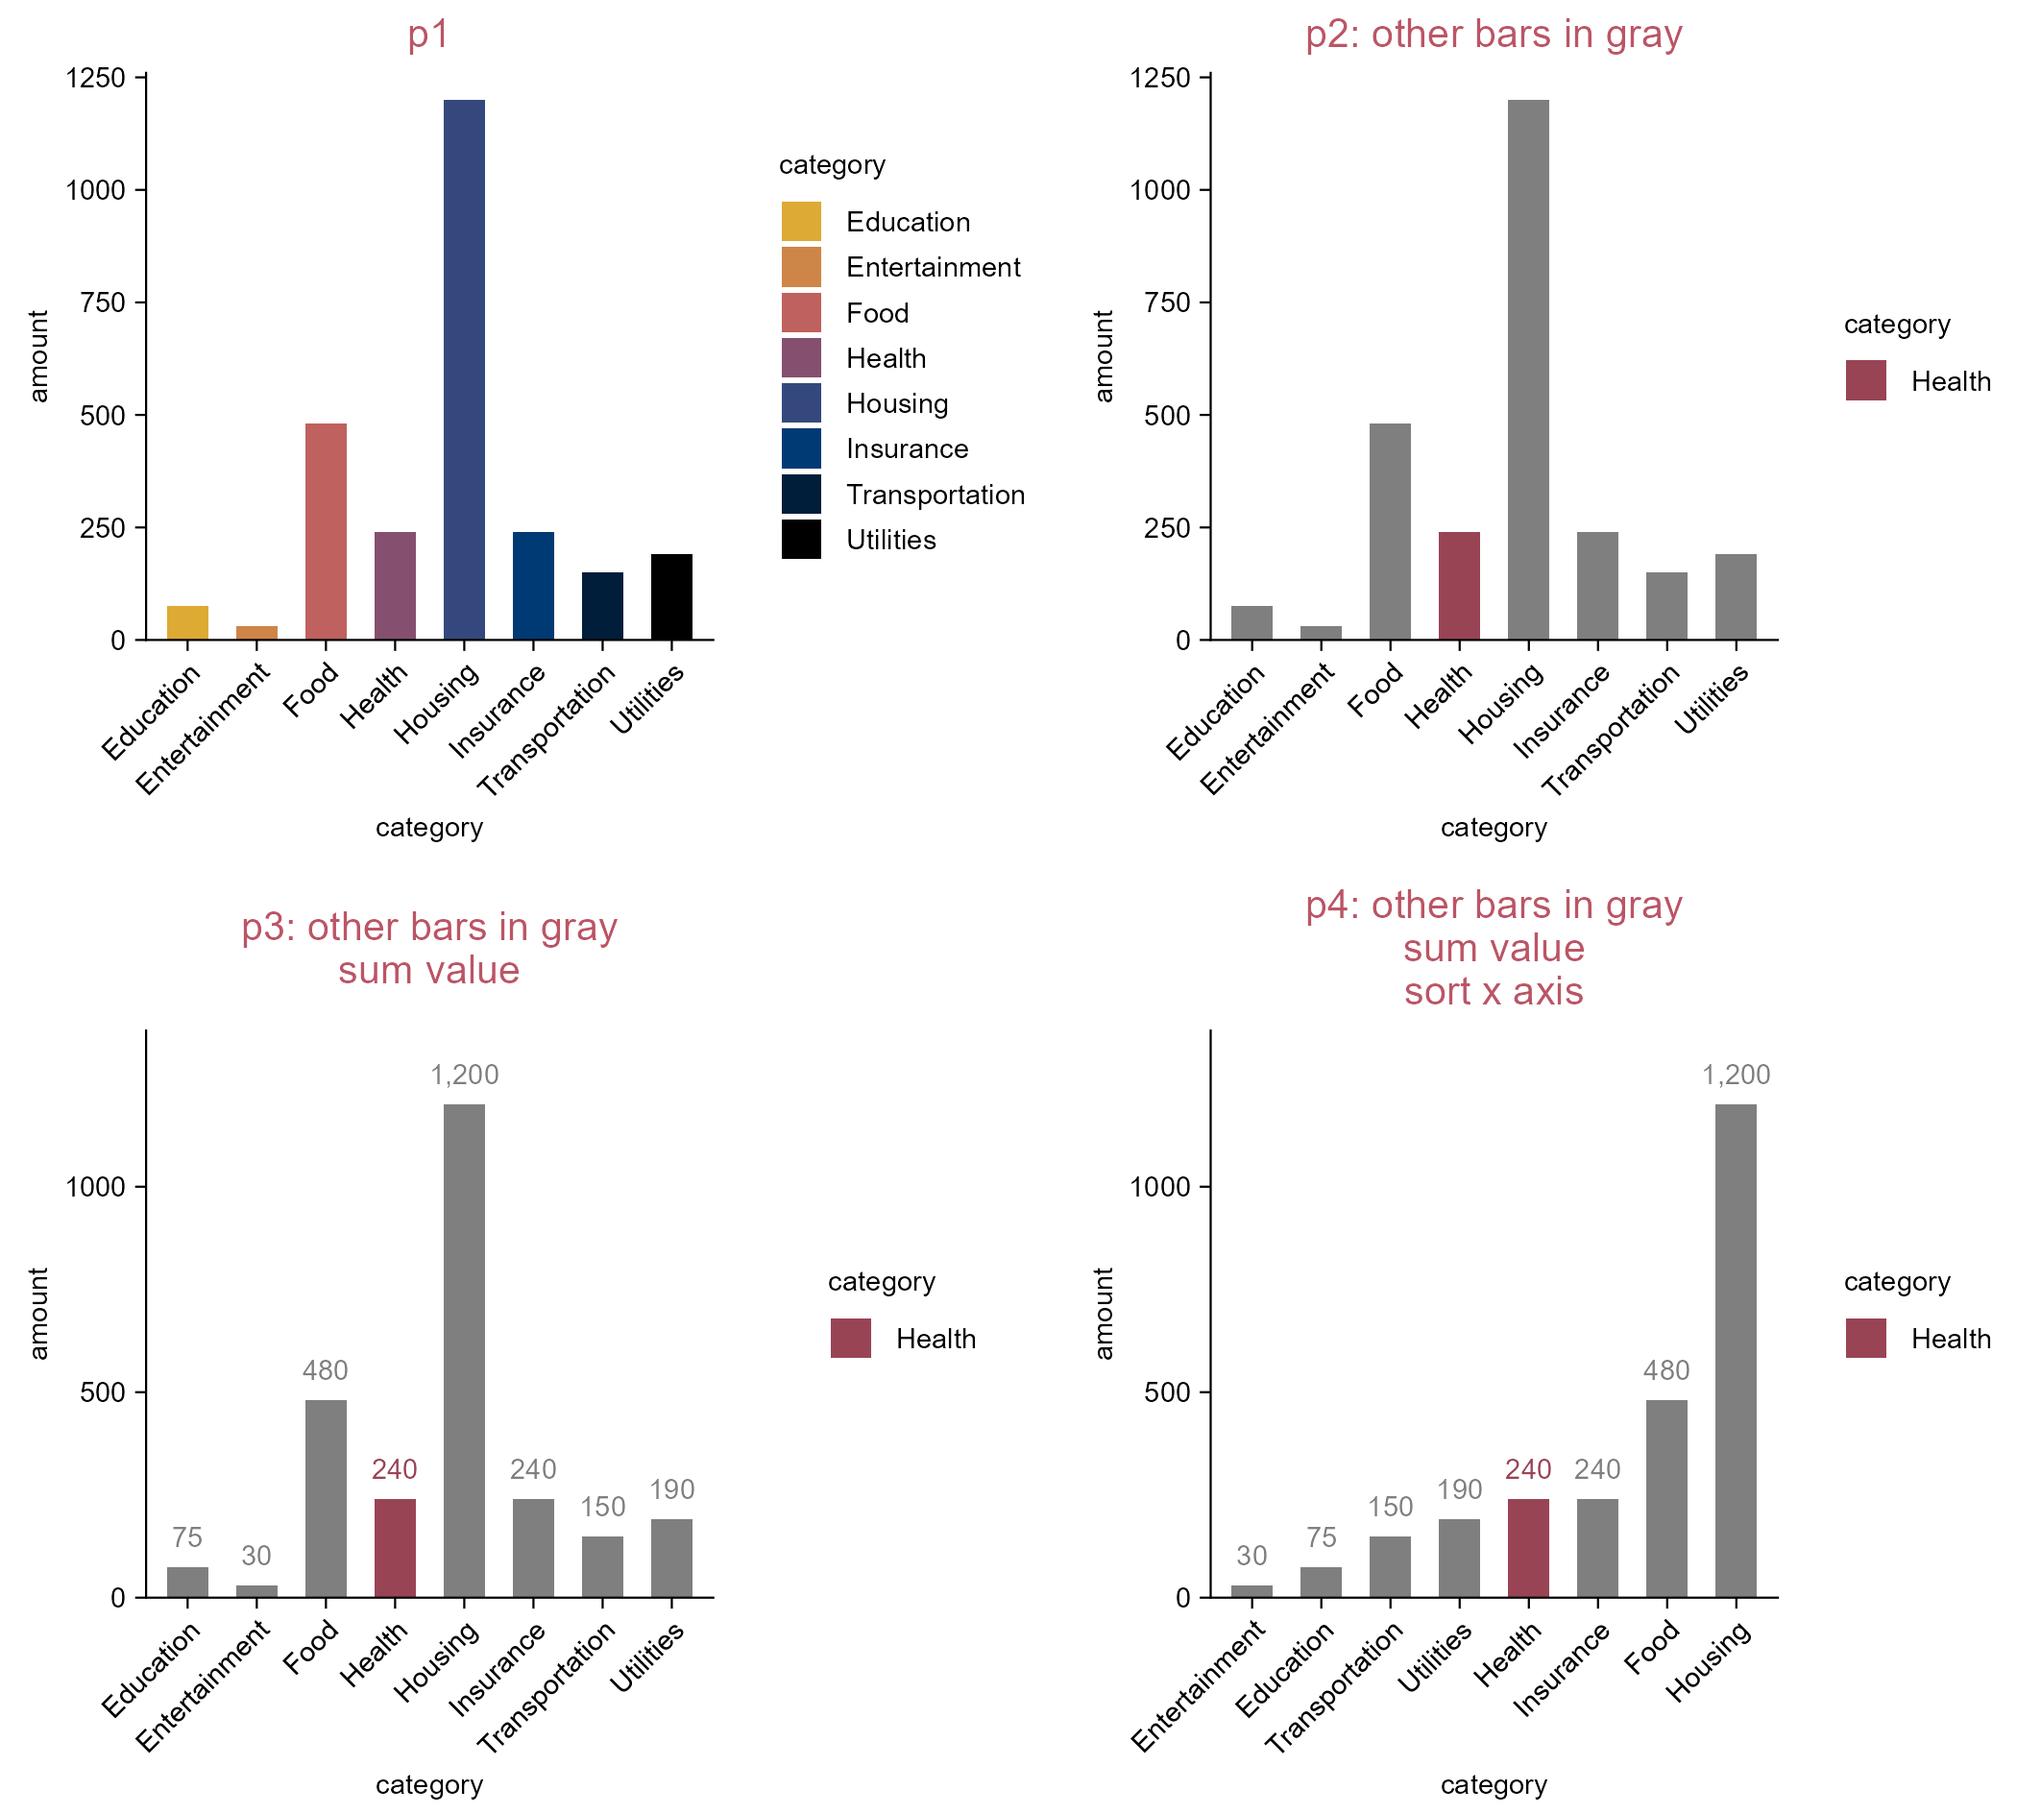
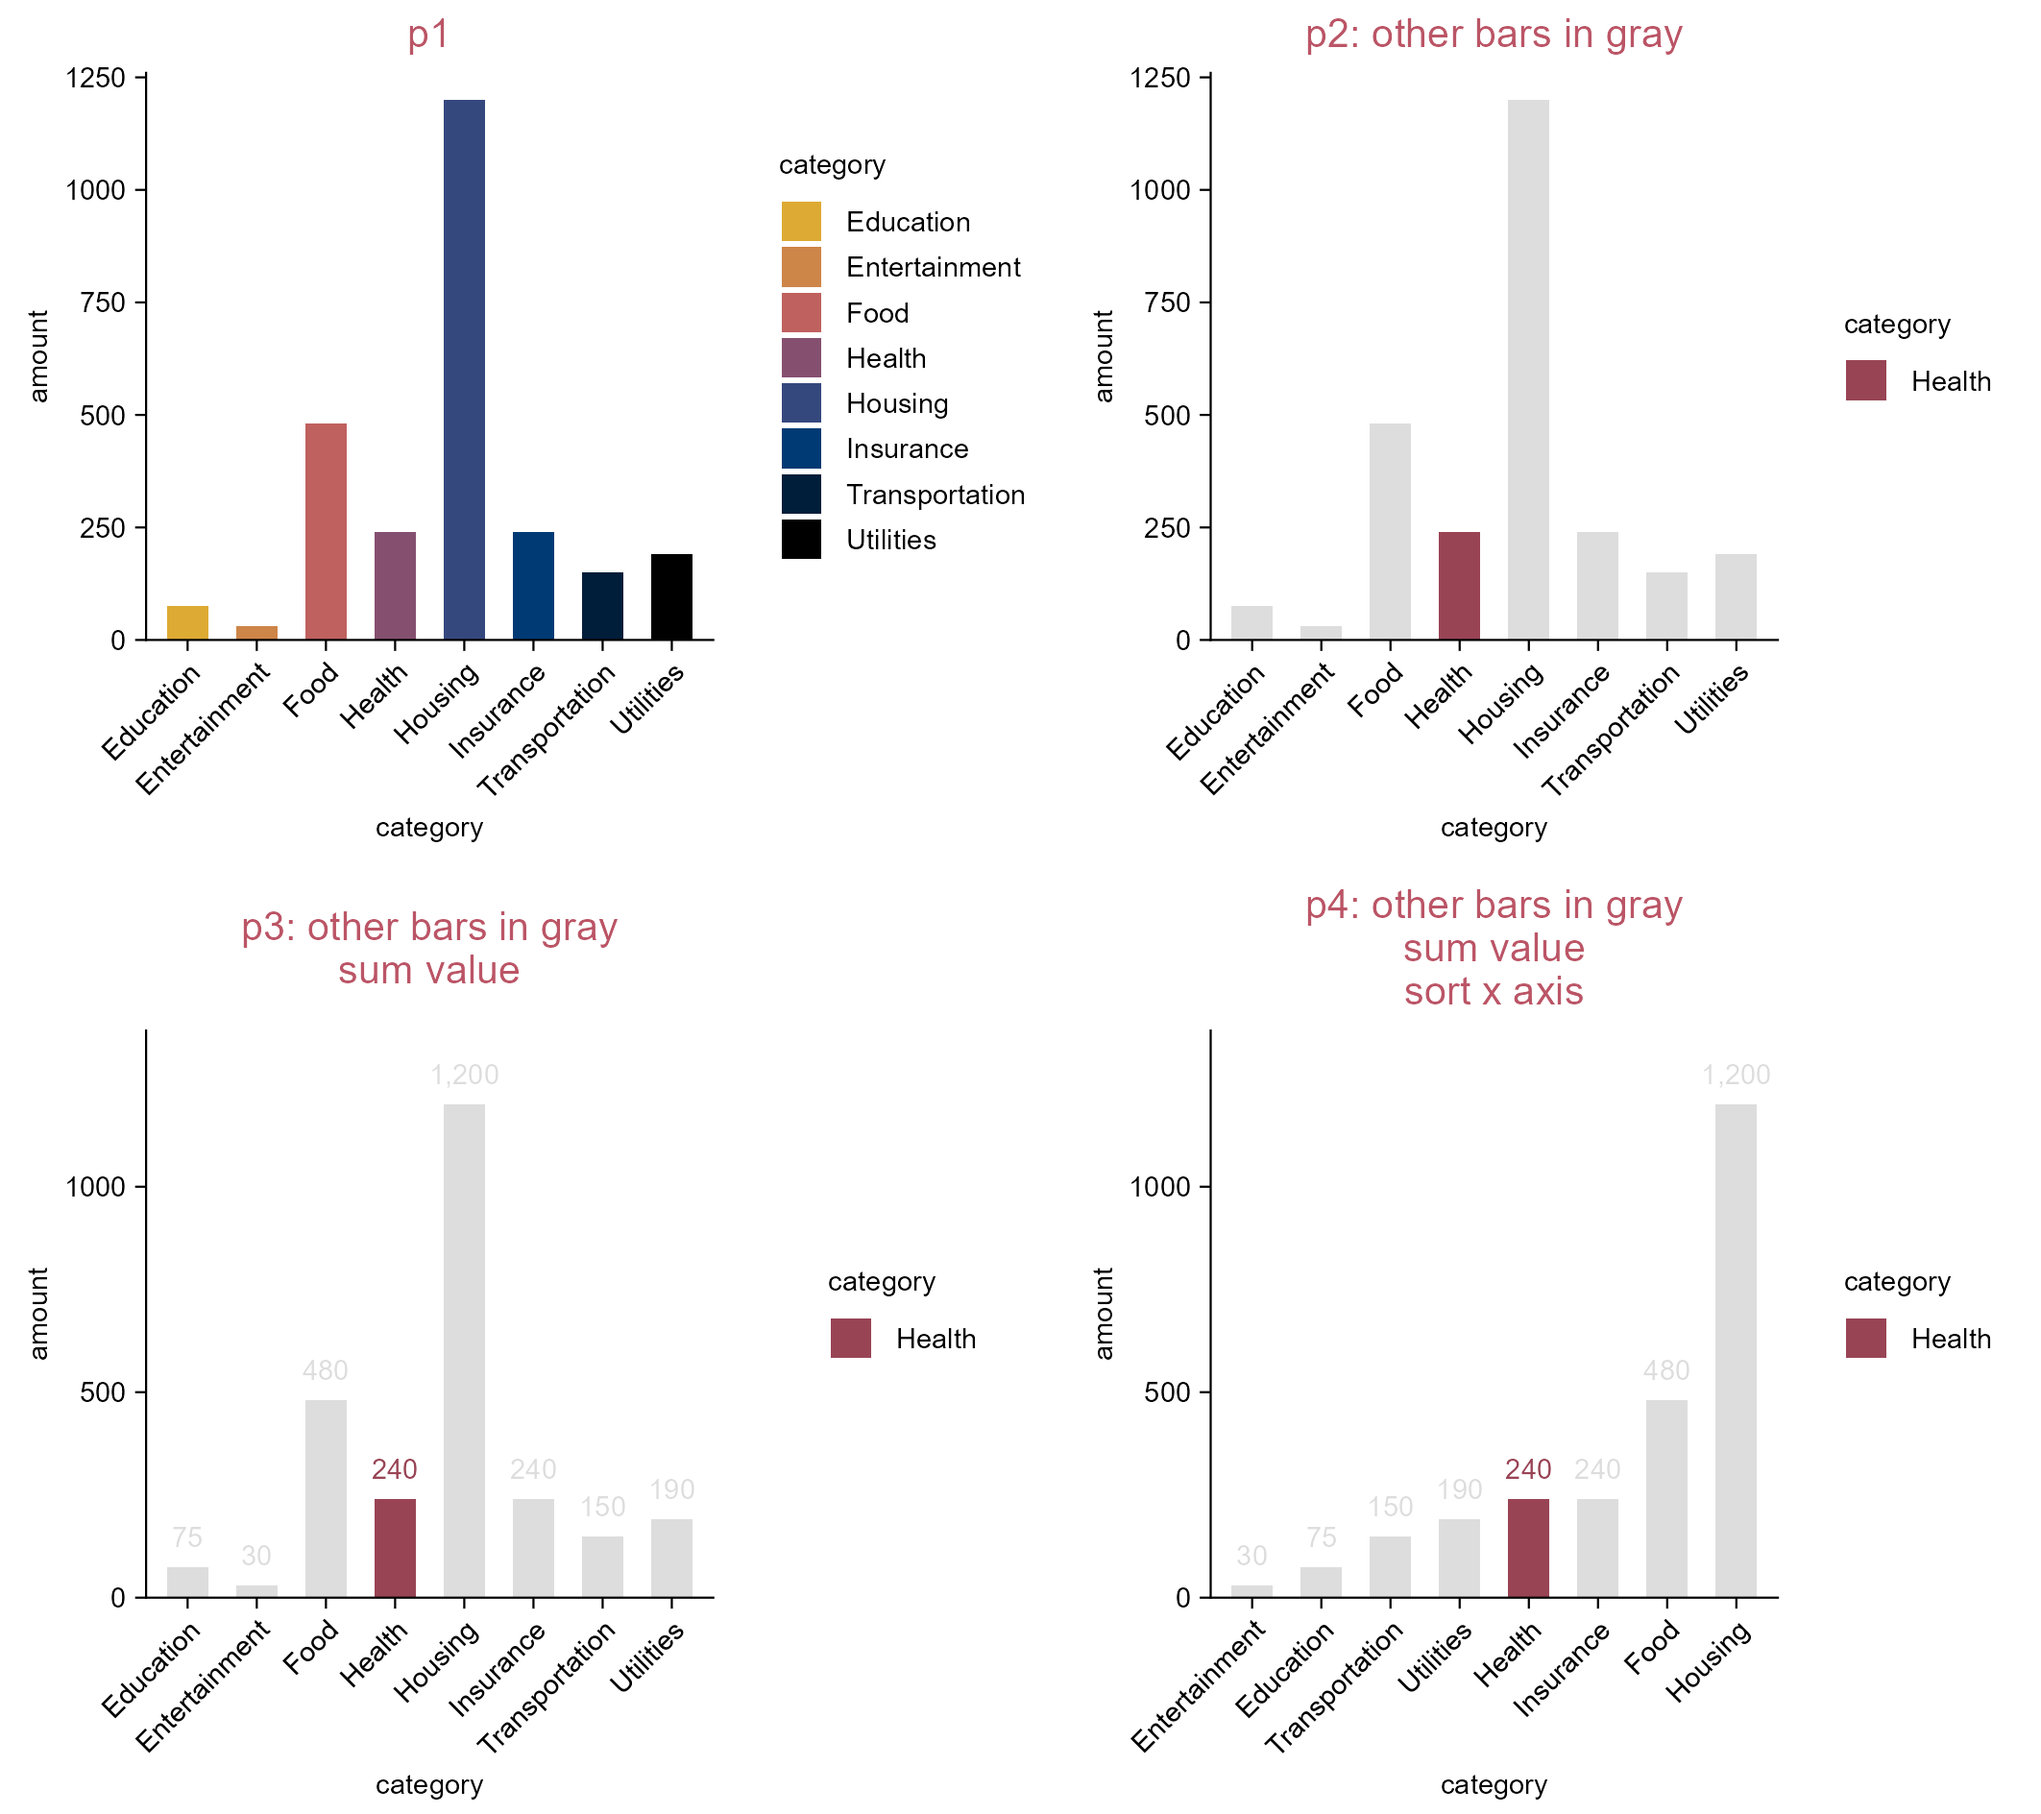
e1.1.5

diff --git a/_book/plots-and-skills_part1.html b/_book/plots-and-skills_part1.html
@@ -1480,28 +1480,26 @@ Note
 <span id="cb48-11"><a href="#cb48-11" aria-hidden="true" tabindex="-1"></a>p2 <span class="ot">&lt;-</span> p1 <span class="sc">|&gt;</span> </span>
 <span id="cb48-12"><a href="#cb48-12" aria-hidden="true" tabindex="-1"></a>  <span class="fu">adjust_title</span>(<span class="at">title =</span> <span class="st">"p2: other bars in gray"</span>) <span class="sc">|&gt;</span> </span>
 <span id="cb48-13"><a href="#cb48-13" aria-hidden="true" tabindex="-1"></a>  <span class="fu">adjust_colors</span>(</span>
-<span id="cb48-14"><a href="#cb48-14" aria-hidden="true" tabindex="-1"></a>    <span class="at">new_colors =</span> <span class="fu">c</span>(</span>
-<span id="cb48-15"><a href="#cb48-15" aria-hidden="true" tabindex="-1"></a>      <span class="st">"Health"</span> <span class="ot">=</span> <span class="st">"#994455"</span>, </span>
-<span id="cb48-16"><a href="#cb48-16" aria-hidden="true" tabindex="-1"></a>      <span class="at">na.value =</span> <span class="st">"#dddddd"</span>))</span>
-<span id="cb48-17"><a href="#cb48-17" aria-hidden="true" tabindex="-1"></a></span>
-<span id="cb48-18"><a href="#cb48-18" aria-hidden="true" tabindex="-1"></a>p3 <span class="ot">&lt;-</span> p1 <span class="sc">|&gt;</span> </span>
-<span id="cb48-19"><a href="#cb48-19" aria-hidden="true" tabindex="-1"></a>  <span class="fu">adjust_title</span>(<span class="at">title =</span> <span class="fu">paste</span>(</span>
-<span id="cb48-20"><a href="#cb48-20" aria-hidden="true" tabindex="-1"></a>    <span class="st">"p3: other bars in gray"</span>,</span>
-<span id="cb48-21"><a href="#cb48-21" aria-hidden="true" tabindex="-1"></a>    <span class="st">"sum value"</span>,</span>
-<span id="cb48-22"><a href="#cb48-22" aria-hidden="true" tabindex="-1"></a>    <span class="at">sep =</span> <span class="st">"</span><span class="sc">\n</span><span class="st">"</span>)) <span class="sc">|&gt;</span> </span>
-<span id="cb48-23"><a href="#cb48-23" aria-hidden="true" tabindex="-1"></a>  <span class="fu">add_sum_value</span>(<span class="at">accuracy =</span> <span class="dv">1</span>) <span class="sc">|&gt;</span> </span>
-<span id="cb48-24"><a href="#cb48-24" aria-hidden="true" tabindex="-1"></a>  <span class="fu">adjust_colors</span>(</span>
-<span id="cb48-25"><a href="#cb48-25" aria-hidden="true" tabindex="-1"></a>    <span class="at">new_colors =</span> <span class="fu">c</span>(</span>
-<span id="cb48-26"><a href="#cb48-26" aria-hidden="true" tabindex="-1"></a>      <span class="st">"Health"</span> <span class="ot">=</span> <span class="st">"#994455"</span>, </span>
-<span id="cb48-27"><a href="#cb48-27" aria-hidden="true" tabindex="-1"></a>      <span class="at">na.value =</span> <span class="st">"#dddddd"</span>))</span>
-<span id="cb48-28"><a href="#cb48-28" aria-hidden="true" tabindex="-1"></a></span>
-<span id="cb48-29"><a href="#cb48-29" aria-hidden="true" tabindex="-1"></a>p4 <span class="ot">&lt;-</span> p3 <span class="sc">|&gt;</span> </span>
-<span id="cb48-30"><a href="#cb48-30" aria-hidden="true" tabindex="-1"></a>  <span class="fu">adjust_title</span>(<span class="at">title =</span> <span class="fu">paste</span>(</span>
-<span id="cb48-31"><a href="#cb48-31" aria-hidden="true" tabindex="-1"></a>    <span class="st">"p4: other bars in gray"</span>,</span>
-<span id="cb48-32"><a href="#cb48-32" aria-hidden="true" tabindex="-1"></a>    <span class="st">"sum value"</span>,</span>
-<span id="cb48-33"><a href="#cb48-33" aria-hidden="true" tabindex="-1"></a>    <span class="st">"sort x axis"</span>,</span>
-<span id="cb48-34"><a href="#cb48-34" aria-hidden="true" tabindex="-1"></a>    <span class="at">sep =</span> <span class="st">"</span><span class="sc">\n</span><span class="st">"</span>)) <span class="sc">|&gt;</span> </span>
-<span id="cb48-35"><a href="#cb48-35" aria-hidden="true" tabindex="-1"></a>  <span class="fu">sort_x_axis_levels</span>()</span></code></pre></div><button title="Copy to Clipboard" class="code-copy-button"><i class="bi"></i></button></div>
+<span id="cb48-14"><a href="#cb48-14" aria-hidden="true" tabindex="-1"></a>    <span class="at">new_colors =</span> <span class="fu">c</span>(<span class="st">"Health"</span> <span class="ot">=</span> <span class="st">"#994455"</span>), </span>
+<span id="cb48-15"><a href="#cb48-15" aria-hidden="true" tabindex="-1"></a>    <span class="at">na.value =</span> <span class="st">"#dddddd"</span>)</span>
+<span id="cb48-16"><a href="#cb48-16" aria-hidden="true" tabindex="-1"></a></span>
+<span id="cb48-17"><a href="#cb48-17" aria-hidden="true" tabindex="-1"></a>p3 <span class="ot">&lt;-</span> p1 <span class="sc">|&gt;</span> </span>
+<span id="cb48-18"><a href="#cb48-18" aria-hidden="true" tabindex="-1"></a>  <span class="fu">adjust_title</span>(<span class="at">title =</span> <span class="fu">paste</span>(</span>
+<span id="cb48-19"><a href="#cb48-19" aria-hidden="true" tabindex="-1"></a>    <span class="st">"p3: other bars in gray"</span>,</span>
+<span id="cb48-20"><a href="#cb48-20" aria-hidden="true" tabindex="-1"></a>    <span class="st">"sum value"</span>,</span>
+<span id="cb48-21"><a href="#cb48-21" aria-hidden="true" tabindex="-1"></a>    <span class="at">sep =</span> <span class="st">"</span><span class="sc">\n</span><span class="st">"</span>)) <span class="sc">|&gt;</span> </span>
+<span id="cb48-22"><a href="#cb48-22" aria-hidden="true" tabindex="-1"></a>  <span class="fu">add_sum_value</span>(<span class="at">accuracy =</span> <span class="dv">1</span>) <span class="sc">|&gt;</span> </span>
+<span id="cb48-23"><a href="#cb48-23" aria-hidden="true" tabindex="-1"></a>  <span class="fu">adjust_colors</span>(</span>
+<span id="cb48-24"><a href="#cb48-24" aria-hidden="true" tabindex="-1"></a>    <span class="at">new_colors =</span> <span class="fu">c</span>(<span class="st">"Health"</span> <span class="ot">=</span> <span class="st">"#994455"</span>), </span>
+<span id="cb48-25"><a href="#cb48-25" aria-hidden="true" tabindex="-1"></a>    <span class="at">na.value =</span> <span class="st">"#dddddd"</span>)</span>
+<span id="cb48-26"><a href="#cb48-26" aria-hidden="true" tabindex="-1"></a></span>
+<span id="cb48-27"><a href="#cb48-27" aria-hidden="true" tabindex="-1"></a>p4 <span class="ot">&lt;-</span> p3 <span class="sc">|&gt;</span> </span>
+<span id="cb48-28"><a href="#cb48-28" aria-hidden="true" tabindex="-1"></a>  <span class="fu">adjust_title</span>(<span class="at">title =</span> <span class="fu">paste</span>(</span>
+<span id="cb48-29"><a href="#cb48-29" aria-hidden="true" tabindex="-1"></a>    <span class="st">"p4: other bars in gray"</span>,</span>
+<span id="cb48-30"><a href="#cb48-30" aria-hidden="true" tabindex="-1"></a>    <span class="st">"sum value"</span>,</span>
+<span id="cb48-31"><a href="#cb48-31" aria-hidden="true" tabindex="-1"></a>    <span class="st">"sort x axis"</span>,</span>
+<span id="cb48-32"><a href="#cb48-32" aria-hidden="true" tabindex="-1"></a>    <span class="at">sep =</span> <span class="st">"</span><span class="sc">\n</span><span class="st">"</span>)) <span class="sc">|&gt;</span> </span>
+<span id="cb48-33"><a href="#cb48-33" aria-hidden="true" tabindex="-1"></a>  <span class="fu">sort_x_axis_levels</span>()</span></code></pre></div><button title="Copy to Clipboard" class="code-copy-button"><i class="bi"></i></button></div>
 </div>
 <div class="quarto-figure quarto-figure-center">
 <figure class="figure">
